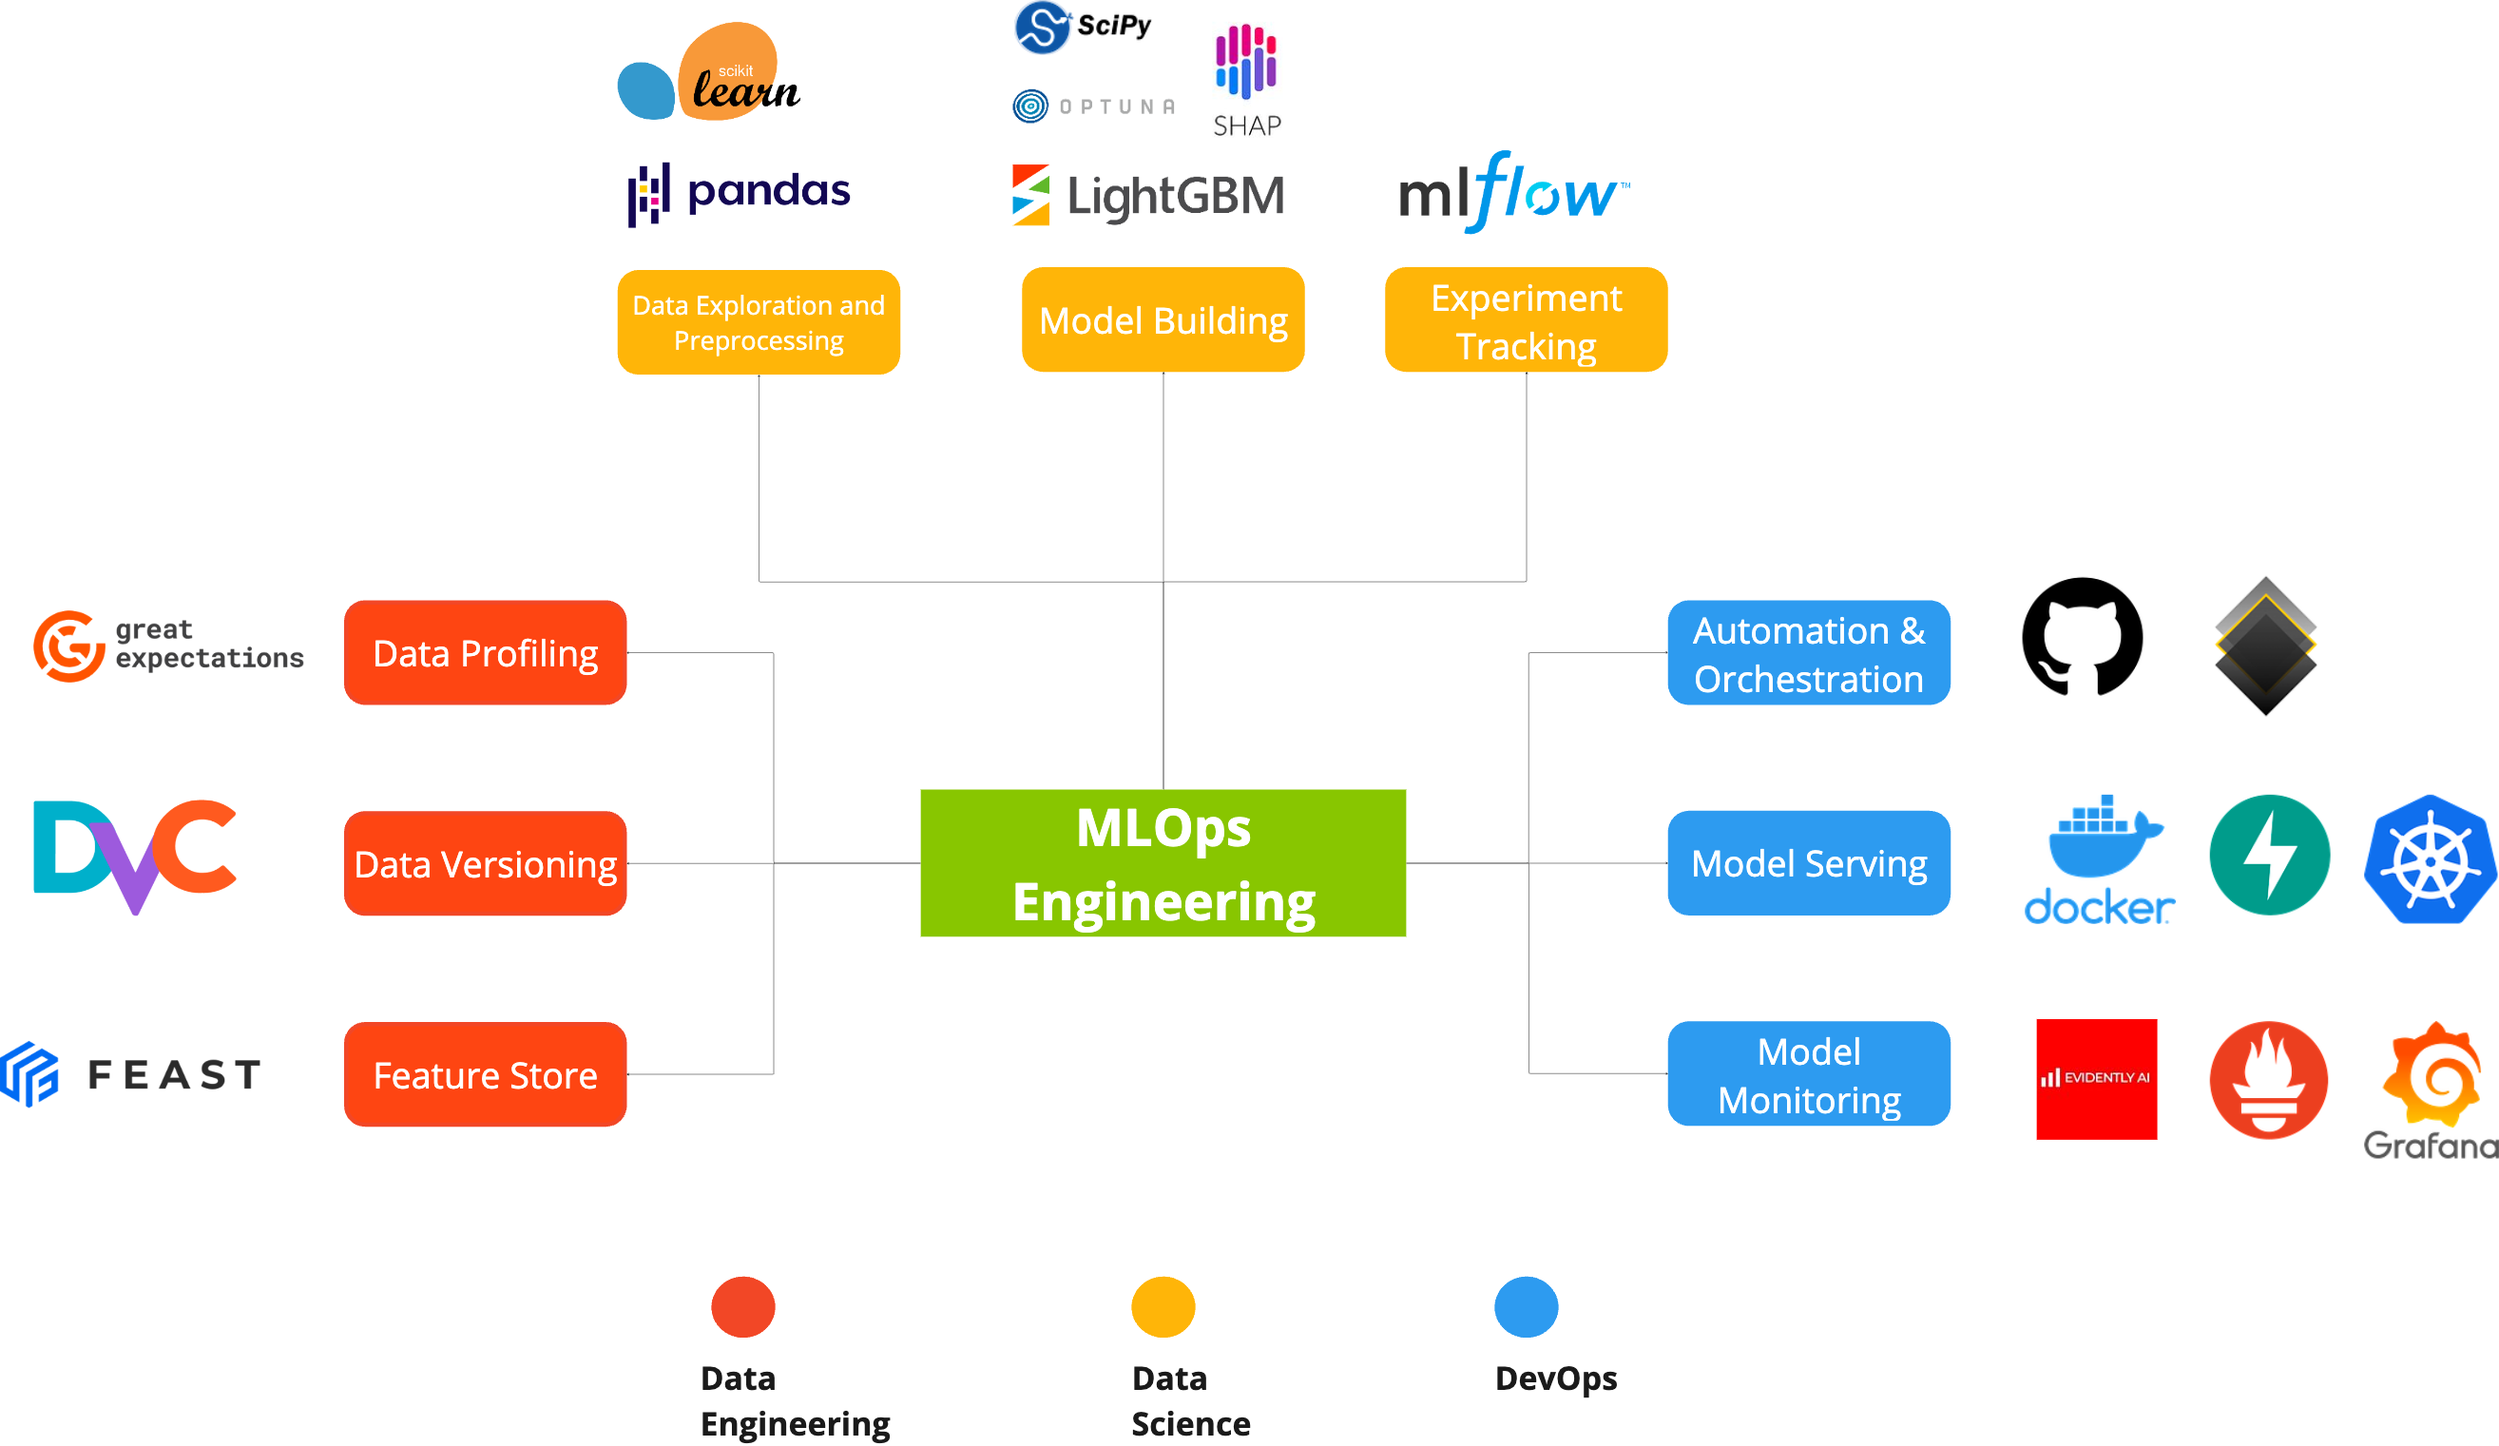
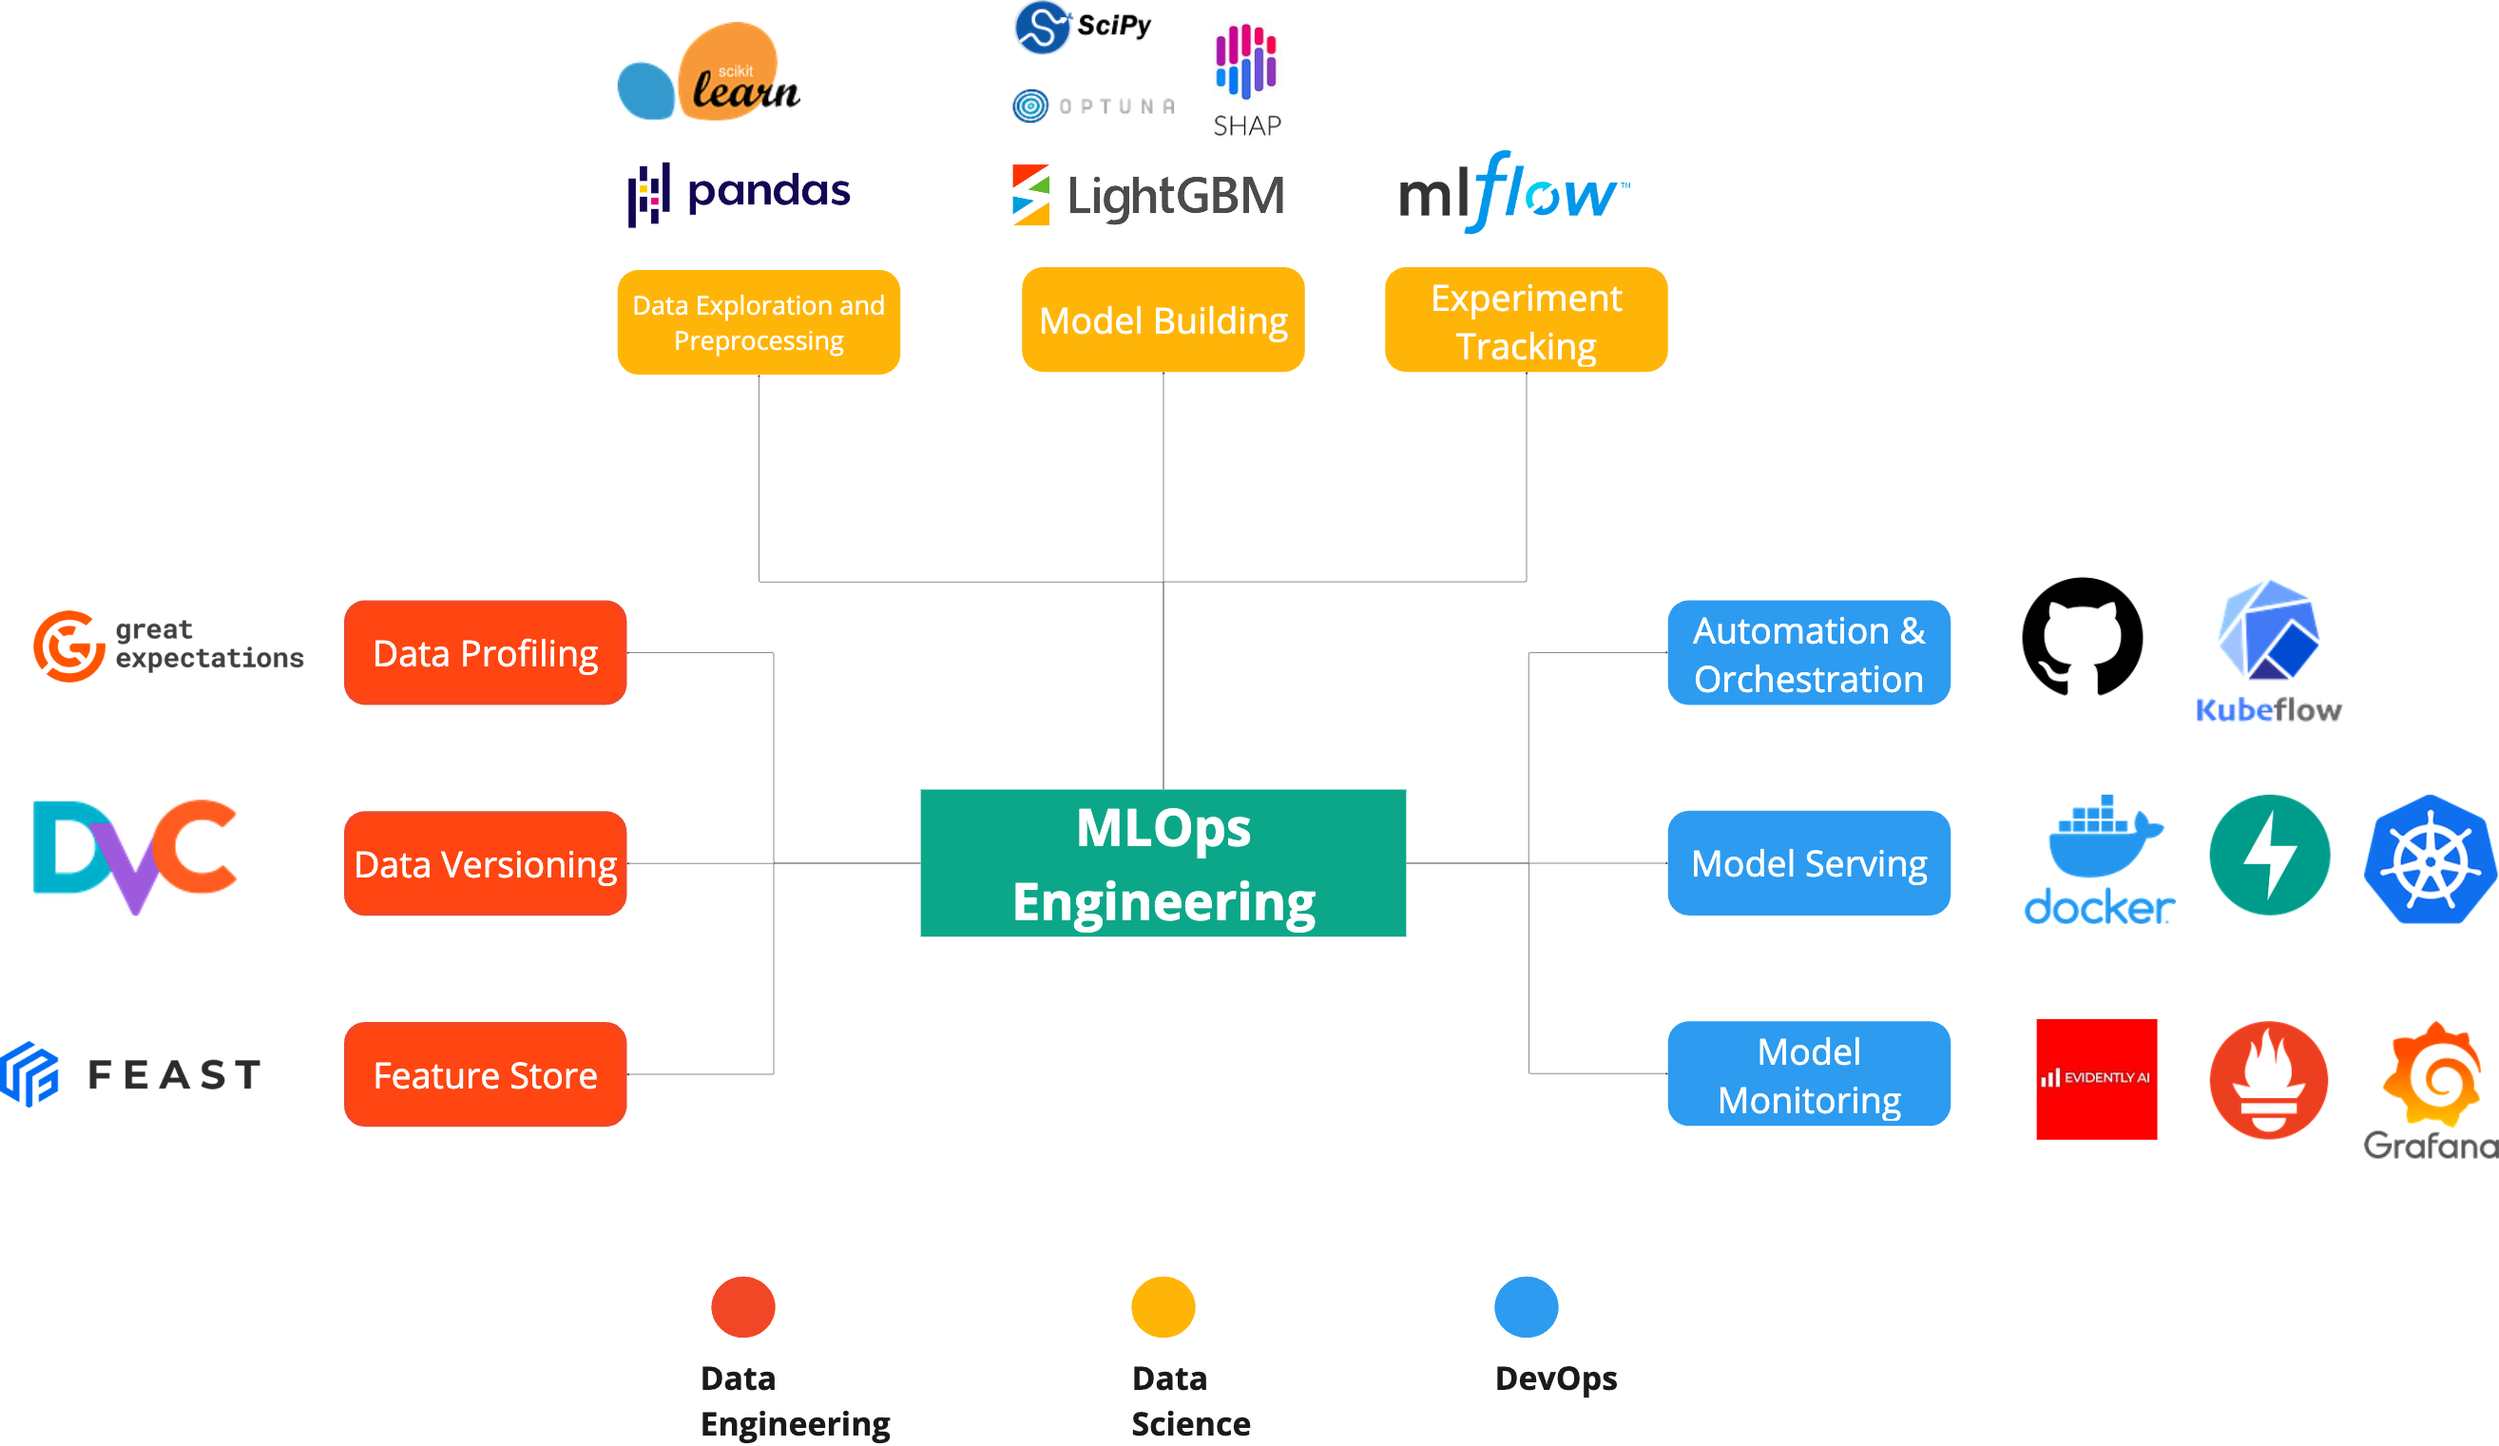
updated README.md

diff --git a/README.md b/README.md
@@ -8,7 +8,7 @@ Prescriptive Analytics: The aim is to minimize the % of Silica by suggesting the
 Data Reference: [Kaggle](https://www.kaggle.com/edumagalhaes/quality-prediction-in-a-mining-process)
 
 ## Tech Stack
-![Tech Stack](images/tech_stack.png)
+![Tech Stack](images/tech_stack_2.png)
 
 ### DATA ENGINEERING
 - Data Profiling: Great Expectations
